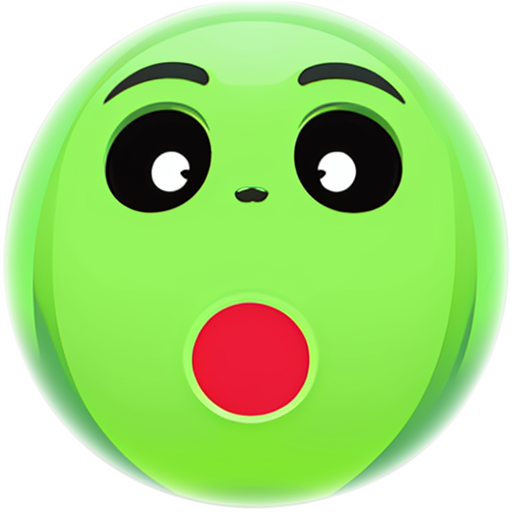
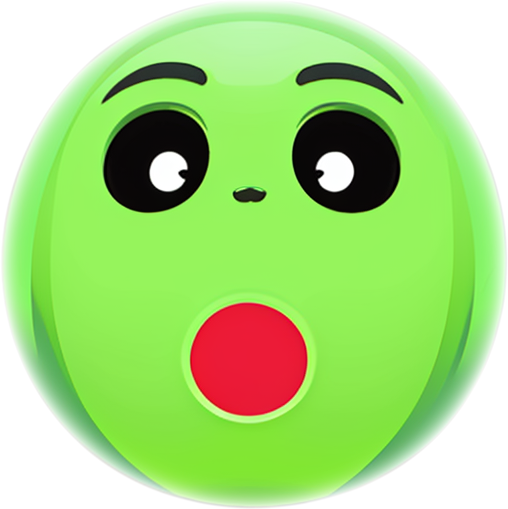
trim alpha edges on images for better collision + reducing spawn window

diff --git a/app/play/page.tsx b/app/play/page.tsx
@@ -17,7 +17,7 @@ export default function Game() {
     const place_highlight = 5;
     const drop_ratio = 0.1;
     const x_space = 2;
-    const spawnwindow = 1000;
+    const spawnwindow = 500;
     const maxfruitspawn = 4;
     const maxDeathTime = 5000;
 
